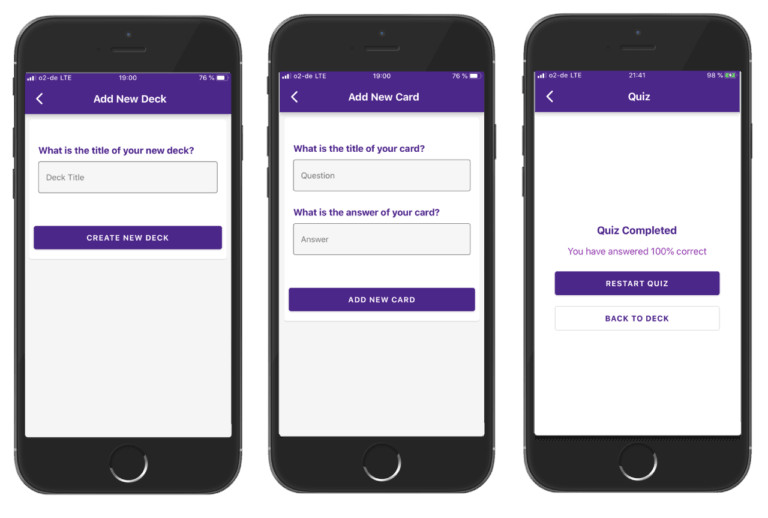
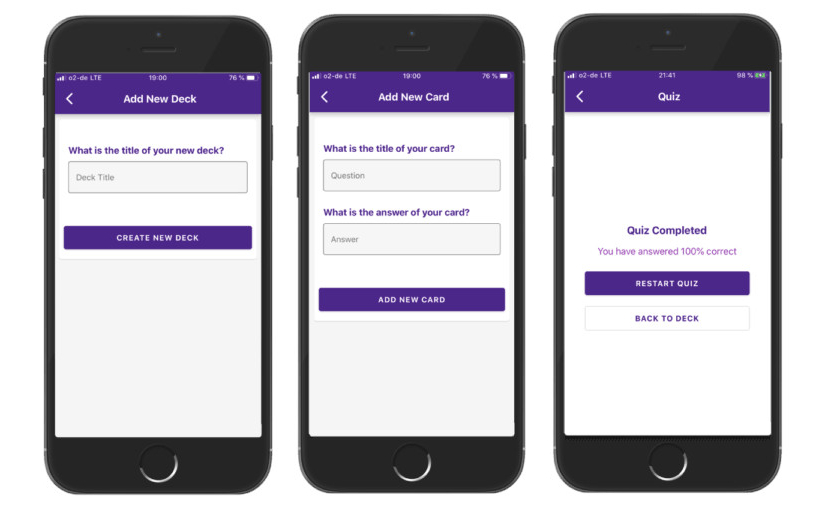
resize flashcards image

diff --git a/index.html b/index.html
@@ -46,7 +46,7 @@
           <h3>MyReads</h3>
         </div>
         <div class="third-work">
-          <img class="center" id="open_third" src="img/flash-cards.JPG" alt="Pixel Art Maker">
+          <img class="center" id="open_third" src="img/flash-cards.JPG" alt="Flashcards">
           <h3>Mobile Flashcards</h3>
         </div>
       </div>
@@ -83,7 +83,7 @@
       </div>
     </div>
     <footer class="dark-grey">
-      <p id="copyright">© 2021 by Abdullah bin Rokan</p>
+      <p id="copyright">© 2024 by Abdullah bin Rokan</p>
     </footer>
     <script src="main.js"></script>
   </body>

diff --git a/css/main.css b/css/main.css
@@ -304,5 +304,6 @@ footer {
 
   .third-work {
     margin-right: 0;
+    /* height: 173.04px!important; */
   }
 }
